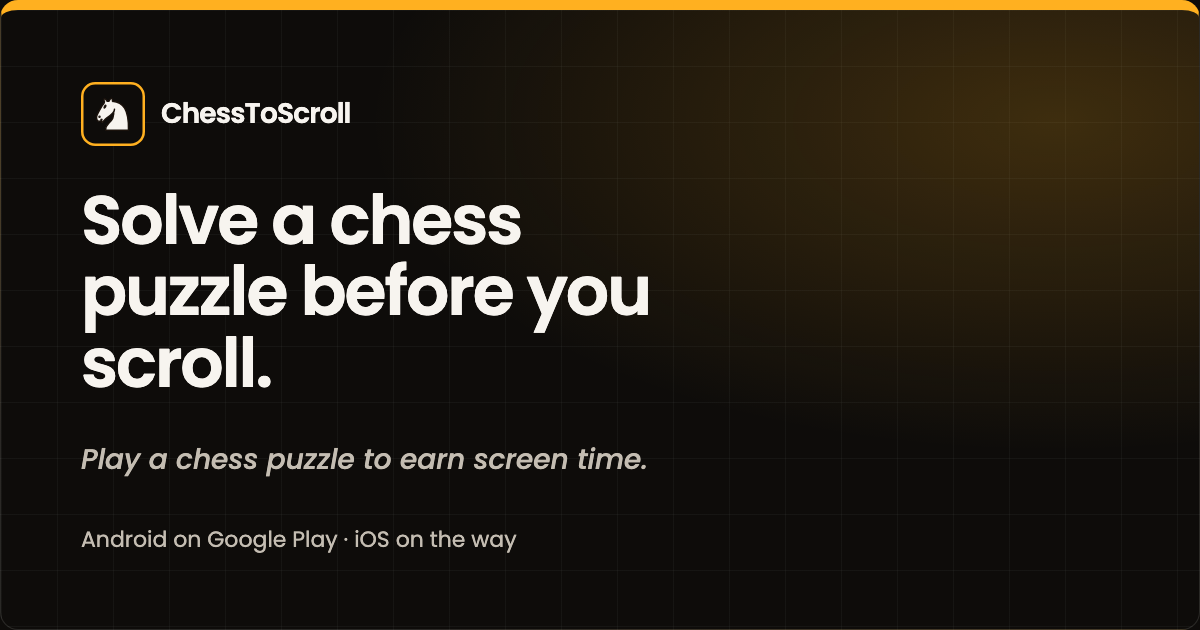
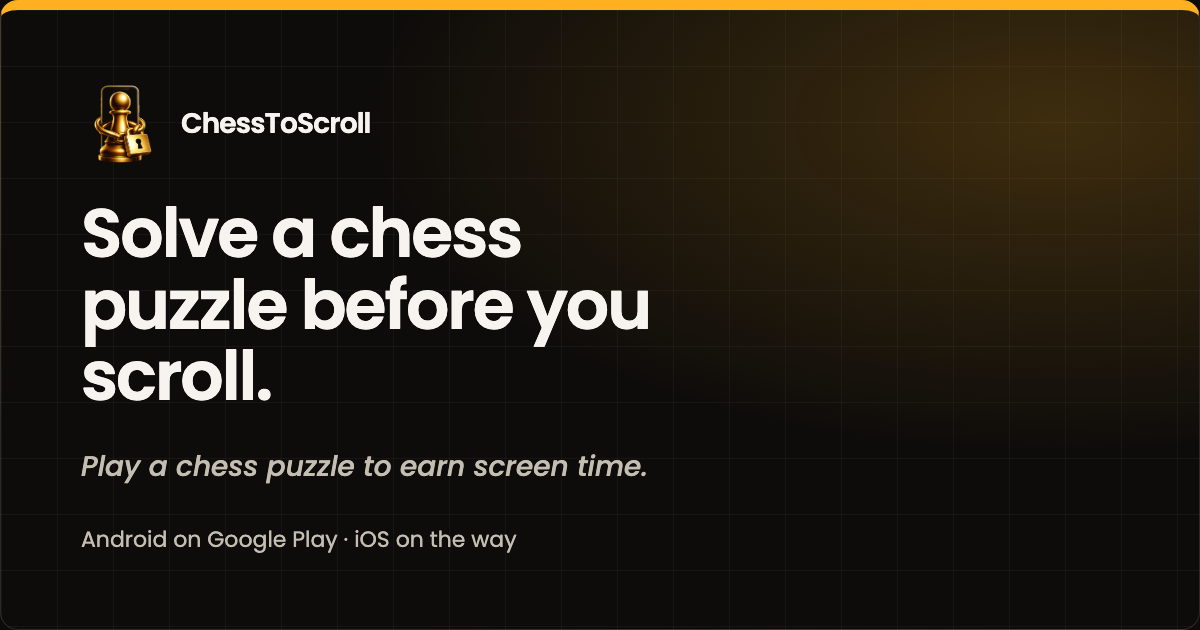
v2

Changed region(s): [[0.0617, 0.3016, 0.555, 0.6333], [0.0617, 0.6937, 0.555, 0.754], [0.0617, 0.1206, 0.3083, 0.2714]]

diff --git a/index.html b/index.html
@@ -23,7 +23,7 @@
   <meta name="twitter:title" content="Solve a Chess Puzzle Before You Scroll | ChessToScroll">
   <meta name="twitter:description" content="Lock the apps you choose. Solve a chess puzzle to earn the minutes back.">
   <meta name="twitter:image" content="https://chesstoscroll.com/og.png">
-  <link rel="icon" href="favicon.svg" type="image/svg+xml">
+  <link rel="icon" href="logo.png" type="image/png">
   <link rel="sitemap" type="application/xml" href="sitemap.xml">
   <link rel="alternate" hreflang="en" href="https://chesstoscroll.com/">
   <link rel="alternate" hreflang="x-default" href="https://chesstoscroll.com/">
@@ -39,7 +39,7 @@
         "legalName": "Ray Viral Lab",
         "url": "https://chesstoscroll.com/",
         "email": "support@chesstoscroll.com",
-        "logo": "https://chesstoscroll.com/favicon.svg"
+        "logo": "https://chesstoscroll.com/logo.png"
       },
       {
         "@type": "WebSite",
@@ -74,7 +74,7 @@
   <header class="site-header nav-simple">
     <div class="bar">
       <a class="logo" href="index.html">
-        <img src="favicon.svg" width="36" height="36" alt="">
+        <img src="logo.png" width="48" height="48" alt="">
         <span>ChessToScroll</span>
       </a>
       <input class="nav-toggle" type="checkbox" id="nav-toggle">
@@ -91,8 +91,10 @@
           <h1>Solve a chess puzzle before you scroll.</h1>
           <p class="lede">ChessToScroll locks the apps you choose. When the minutes run out, a puzzle covers the screen, and solving it earns them back.</p>
           <div class="store-row">
-            <a class="btn" href="https://play.google.com/store/apps/details?id=com.hintapp.chesslock" target="_blank" rel="noopener noreferrer"><span class="play" aria-hidden="true"></span>Get it on Google Play</a>
-            <span class="soon">iOS on the way</span>
+            <a class="store-link" href="https://play.google.com/store/apps/details?id=com.hintapp.chesslock" target="_blank" rel="noopener noreferrer" aria-label="Get it on Google Play">
+              <img class="badge badge-play" src="badges/google-play-badge.png" width="155" height="60" alt="Get it on Google Play">
+            </a>
+            <img class="badge badge-ios" src="badges/app-store-badge.svg" width="120" height="40" alt="Download on the App Store">
           </div>
         </div>
         <figure class="phone-figure">

diff --git a/how-it-works.html b/how-it-works.html
@@ -19,7 +19,7 @@
   <meta name="twitter:title" content="How ChessToScroll Works">
   <meta name="twitter:description" content="Lock apps, solve a chess puzzle, earn minutes back.">
   <meta name="twitter:image" content="https://chesstoscroll.com/og.png">
-  <link rel="icon" href="favicon.svg" type="image/svg+xml">
+  <link rel="icon" href="logo.png" type="image/png">
   <link rel="stylesheet" href="styles.css">
   <script type="application/ld+json">
   {
@@ -94,7 +94,7 @@
   <header class="site-header">
     <div class="bar">
       <a class="logo" href="index.html">
-        <img src="favicon.svg" width="36" height="36" alt="">
+        <img src="logo.png" width="48" height="48" alt="">
         <span>ChessToScroll</span>
       </a>
       <input class="nav-toggle" type="checkbox" id="nav-toggle">
@@ -335,7 +335,7 @@
     <div class="wrap footer-grid">
       <div class="footer-brand">
         <a class="logo" href="index.html">
-          <img src="favicon.svg" width="36" height="36" alt="">
+          <img src="logo.png" width="48" height="48" alt="">
           <span>ChessToScroll</span>
         </a>
         <p>Solve a chess puzzle before you scroll.</p>

diff --git a/terms.html b/terms.html
@@ -19,7 +19,7 @@
   <meta name="twitter:title" content="Terms of Use | ChessToScroll">
   <meta name="twitter:description" content="Terms for the ChessToScroll app and website.">
   <meta name="twitter:image" content="https://chesstoscroll.com/og.png">
-  <link rel="icon" href="favicon.svg" type="image/svg+xml">
+  <link rel="icon" href="logo.png" type="image/png">
   <link rel="stylesheet" href="styles.css">
   <script type="application/ld+json">
   {
@@ -49,7 +49,7 @@
   <header class="site-header">
     <div class="bar">
       <a class="logo" href="index.html">
-        <img src="favicon.svg" width="36" height="36" alt="">
+        <img src="logo.png" width="48" height="48" alt="">
         <span>ChessToScroll</span>
       </a>
       <input class="nav-toggle" type="checkbox" id="nav-toggle">
@@ -129,7 +129,7 @@
     <div class="wrap footer-grid">
       <div class="footer-brand">
         <a class="logo" href="index.html">
-          <img src="favicon.svg" width="36" height="36" alt="">
+          <img src="logo.png" width="48" height="48" alt="">
           <span>ChessToScroll</span>
         </a>
         <p>Solve a chess puzzle before you scroll.</p>

diff --git a/privacy.html b/privacy.html
@@ -19,7 +19,7 @@
   <meta name="twitter:title" content="Privacy Policy | ChessToScroll">
   <meta name="twitter:description" content="No account. Progress stays on your phone.">
   <meta name="twitter:image" content="https://chesstoscroll.com/og.png">
-  <link rel="icon" href="favicon.svg" type="image/svg+xml">
+  <link rel="icon" href="logo.png" type="image/png">
   <link rel="stylesheet" href="styles.css">
   <script type="application/ld+json">
   {
@@ -49,7 +49,7 @@
   <header class="site-header">
     <div class="bar">
       <a class="logo" href="index.html">
-        <img src="favicon.svg" width="36" height="36" alt="">
+        <img src="logo.png" width="48" height="48" alt="">
         <span>ChessToScroll</span>
       </a>
       <input class="nav-toggle" type="checkbox" id="nav-toggle">
@@ -134,7 +134,7 @@
     <div class="wrap footer-grid">
       <div class="footer-brand">
         <a class="logo" href="index.html">
-          <img src="favicon.svg" width="36" height="36" alt="">
+          <img src="logo.png" width="48" height="48" alt="">
           <span>ChessToScroll</span>
         </a>
         <p>Solve a chess puzzle before you scroll.</p>

diff --git a/og-card.html b/og-card.html
@@ -24,7 +24,7 @@
       border-top: 10px solid #ffb020;
     }
     .brand { display: flex; align-items: center; gap: 16px; font-size: 28px; font-weight: 600; letter-spacing: -0.03em; }
-    .brand img { width: 64px; height: 64px; }
+    .brand img { width: 84px; height: 84px; object-fit: contain; }
     h1 { font-size: 68px; max-width: 14ch; margin: 0; line-height: 1.05; }
     .sub { font-size: 28px; font-style: italic; font-weight: 500; margin: 0; }
     .foot { font-size: 22px; color: #c4bdb2; margin: 0; }
@@ -32,7 +32,7 @@
 </head>
 <body>
   <div class="card">
-    <div class="brand"><img src="favicon.svg" alt=""> ChessToScroll</div>
+    <div class="brand"><img src="logo.png" alt=""> ChessToScroll</div>
     <h1>Solve a chess puzzle before you scroll.</h1>
     <p class="sub">Play a chess puzzle to earn screen time.</p>
     <p class="foot">Android on Google Play · iOS on the way</p>

diff --git a/styles.css b/styles.css
@@ -180,9 +180,10 @@ a {
 }
 
 .logo img {
-  width: 36px;
-  height: 36px;
+  width: 48px;
+  height: 48px;
   max-width: none;
+  object-fit: contain;
 }
 
 .nav {
@@ -1051,9 +1052,37 @@ address a {
 .store-row {
   display: flex;
   flex-wrap: wrap;
-  gap: 10px;
+  gap: 12px;
   align-items: center;
-  margin: 22px 0 12px;
+  margin: 22px 0 4px;
+}
+
+.store-link {
+  display: inline-flex;
+  line-height: 0;
+  border-radius: 10px;
+}
+
+.store-link:hover {
+  opacity: 0.88;
+}
+
+.badge {
+  display: block;
+  width: auto;
+}
+
+.badge-play {
+  height: 60px;
+  width: 155px;
+  max-width: none;
+  margin: -10px;
+}
+
+.badge-ios {
+  height: 40px;
+  width: 120px;
+  max-width: none;
 }
 
 .soon {
